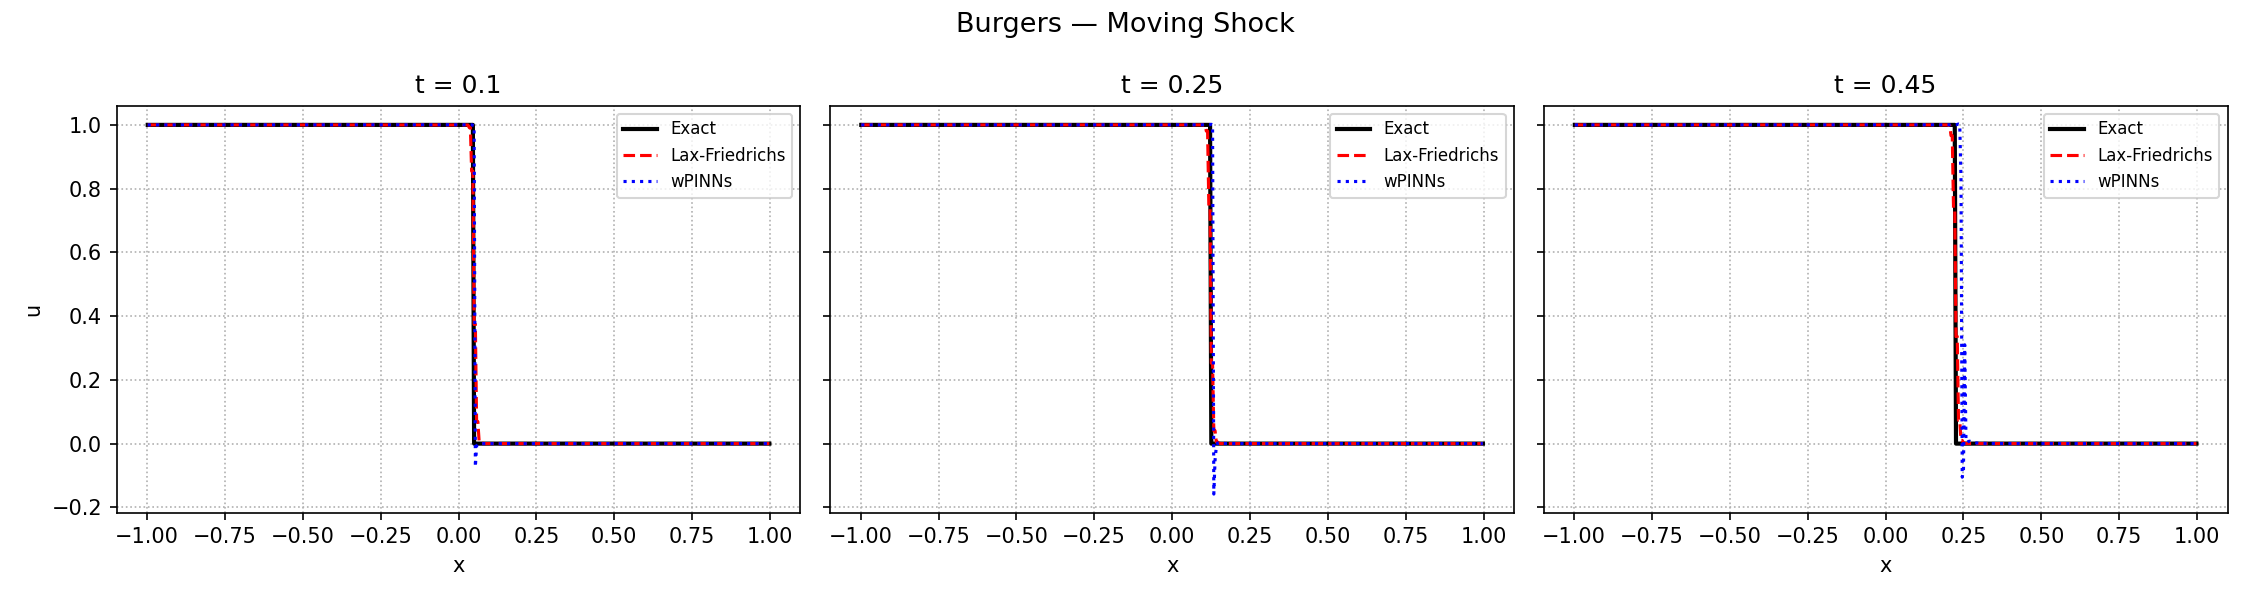
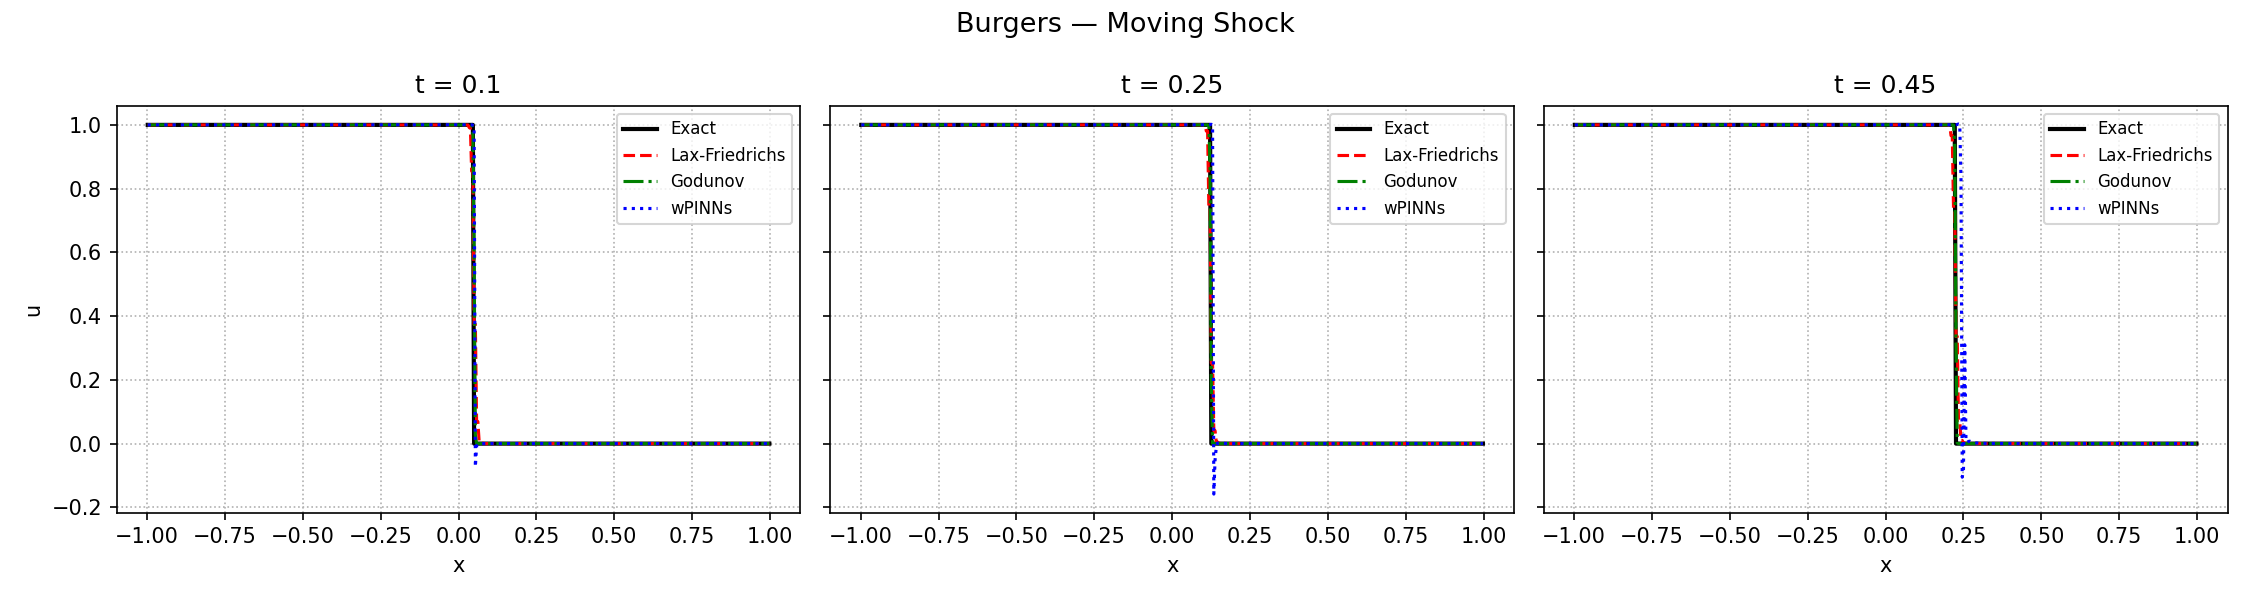
Add Godunov solver and include it in wPINNs comparison
- New godunov.py: exact Godunov flux for Burgers, mirroring lax_friedrichs.py
- comparison.ipynb: plot Godunov alongside LF and wPINNs in slices,
  error tables, error-vs-time, convergence study, and summary
- Regenerate comparison/convergence figures

Changed region(s): [[0.5911, 0.27, 0.6533, 0.39], [0.28, 0.27, 0.3422, 0.39], [0.9022, 0.27, 0.9644, 0.39]]

diff --git a/godunov.py b/godunov.py
@@ -1,0 +1,155 @@
+"""
+Godunov solver for inviscid Burgers' equation  u_t + (u^2/2)_x = 0
+on x ∈ [x_min, x_max], t ∈ [0, T].
+
+Two Riemann problems (matching the wPINNs experiments):
+  - "Rarefaction": u0 = -1 (x≤0), +1 (x>0)  →  rarefaction fan
+  - "Moving":      u0 = +1 (x≤0),  0 (x>0)  →  rightward-moving shock at speed 1/2
+
+The Godunov flux uses the exact Riemann solver for the convex flux f(u)=u^2/2.
+"""
+
+import numpy as np
+
+
+def godunov_flux(uL: np.ndarray, uR: np.ndarray) -> np.ndarray:
+    """
+    Exact Godunov numerical flux for Burgers' equation, f(u) = u^2/2.
+
+    For a convex flux the godunov flux at an interface is
+        F = min_{u in [uL, uR]} f(u)   if uL <= uR
+        F = max_{u in [uR, uL]} f(u)   if uL >  uR
+    For f(u) = u^2/2 this reduces to the closed form below.
+    """
+    f = lambda v: 0.5 * v ** 2
+    fL, fR = f(uL), f(uR)
+
+    F = np.where(
+        uL <= uR,
+        # Rarefaction / sonic case: minimum of f over [uL, uR]
+        np.where(uL > 0.0, fL, np.where(uR < 0.0, fR, 0.0)),
+        # Shock case: pick upwind state by the Rankine-Hugoniot speed s = (uL+uR)/2
+        np.where(0.5 * (uL + uR) > 0.0, fL, fR),
+    )
+    return F
+
+
+def godunov(case: str, nx: int = 500, cfl: float = 0.9):
+    """
+    Run the Godunov scheme and return the solution on a (t, x) grid.
+
+    Parameters
+    ----------
+    case : "Rarefaction" or "Moving"
+    nx   : number of interior spatial cells
+    cfl  : CFL number (must be < 1 for stability)
+
+    Returns
+    -------
+    x_centers : (nx,)   spatial cell centers
+    t_vec     : (nt,)   time values at which solution is stored
+    U         : (nt, nx) solution array
+    """
+    if case == "Rarefaction":
+        x_min, x_max, T = -1.0, 1.0, 0.45
+    elif case == "Moving":
+        x_min, x_max, T = -1.0, 1.0, 0.45
+    else:
+        raise ValueError(f"Unknown case '{case}'. Use 'Rarefaction' or 'Moving'.")
+
+    dx = (x_max - x_min) / nx
+    x_centers = np.linspace(x_min + 0.5 * dx, x_max - 0.5 * dx, nx)
+
+    # Initial condition
+    if case == "Rarefaction":
+        u = np.where(x_centers <= 0.0, -1.0, 1.0).astype(float)
+        u_left_bc, u_right_bc = -1.0, 1.0
+    else:  # Moving shock
+        u = np.where(x_centers <= 0.0, 1.0, 0.0).astype(float)
+        u_left_bc, u_right_bc = 1.0, 0.0
+
+    t = 0.0
+    t_vec = [t]
+    U = [u.copy()]
+
+    while t < T:
+        max_wave = max(np.max(np.abs(u)), 1e-12)
+        dt = cfl * dx / max_wave
+        dt = min(dt, T - t)
+
+        # Ghost cells for Dirichlet BCs
+        u_ext = np.concatenate([[u_left_bc], u, [u_right_bc]])
+
+        # Godunov flux at each interface F_{j+1/2}
+        F = godunov_flux(u_ext[:-1], u_ext[1:])
+
+        u_new = u - (dt / dx) * (F[1:] - F[:-1])
+
+        u = u_new
+        t += dt
+        t_vec.append(t)
+        U.append(u.copy())
+
+    return x_centers, np.array(t_vec), np.array(U)
+
+
+def exact_solution(case: str, x: np.ndarray, t: float) -> np.ndarray:
+    """
+    Exact entropy solution evaluated at spatial positions x and time t.
+
+    Rarefaction (u0 = -1 left, +1 right):
+        u = -1          x < -t
+        u = x/t    -t ≤ x ≤ t
+        u = +1          x > t
+
+    Moving shock (u0 = 1 left, 0 right, shock speed s = 1/2):
+        u = 1      x < t/2
+        u = 0      x > t/2
+    """
+    sol = np.zeros_like(x, dtype=float)
+    if case == "Rarefaction":
+        if t == 0.0:
+            sol = np.where(x <= 0.0, -1.0, 1.0).astype(float)
+        else:
+            sol = np.where(x < -t, -1.0,
+                  np.where(x > t,   1.0, x / t))
+    elif case == "Moving":
+        if t == 0.0:
+            sol = np.where(x <= 0.0, 1.0, 0.0).astype(float)
+        else:
+            sol = np.where(x <= 0.5 * t, 1.0, 0.0).astype(float)
+    return sol
+
+
+def l1_error(u_num: np.ndarray, u_ex: np.ndarray) -> float:
+    return float(np.mean(np.abs(u_num - u_ex)))
+
+
+def relative_l1_error(u_num: np.ndarray, u_ex: np.ndarray) -> float:
+    denom = np.mean(np.abs(u_ex))
+    return l1_error(u_num, u_ex) / max(denom, 1e-12)
+
+
+if __name__ == "__main__":
+    import matplotlib.pyplot as plt
+
+    for case in ["Rarefaction", "Moving"]:
+        x, t_vec, U = godunov(case, nx=500)
+        T_final = t_vec[-1]
+        u_god = U[-1]
+        u_ex = exact_solution(case, x, T_final)
+
+        print(f"\n=== {case} ===")
+        print(f"  Final time : {T_final:.4f}")
+        print(f"  L1 error   : {l1_error(u_god, u_ex):.6f}")
+        print(f"  Rel L1 err : {relative_l1_error(u_god, u_ex):.6f}")
+
+        plt.figure(figsize=(7, 4))
+        plt.plot(x, u_ex,  "k-",  lw=2,   label="Exact")
+        plt.plot(x, u_god, "b--", lw=1.5, label="Godunov")
+        plt.title(f"Burgers — {case}  (t = {T_final:.2f})")
+        plt.xlabel("x"); plt.ylabel("u")
+        plt.legend(); plt.grid(True, ls=":")
+        plt.tight_layout()
+        plt.savefig(f"godunov_{case.lower()}.png", dpi=150)
+        plt.show()